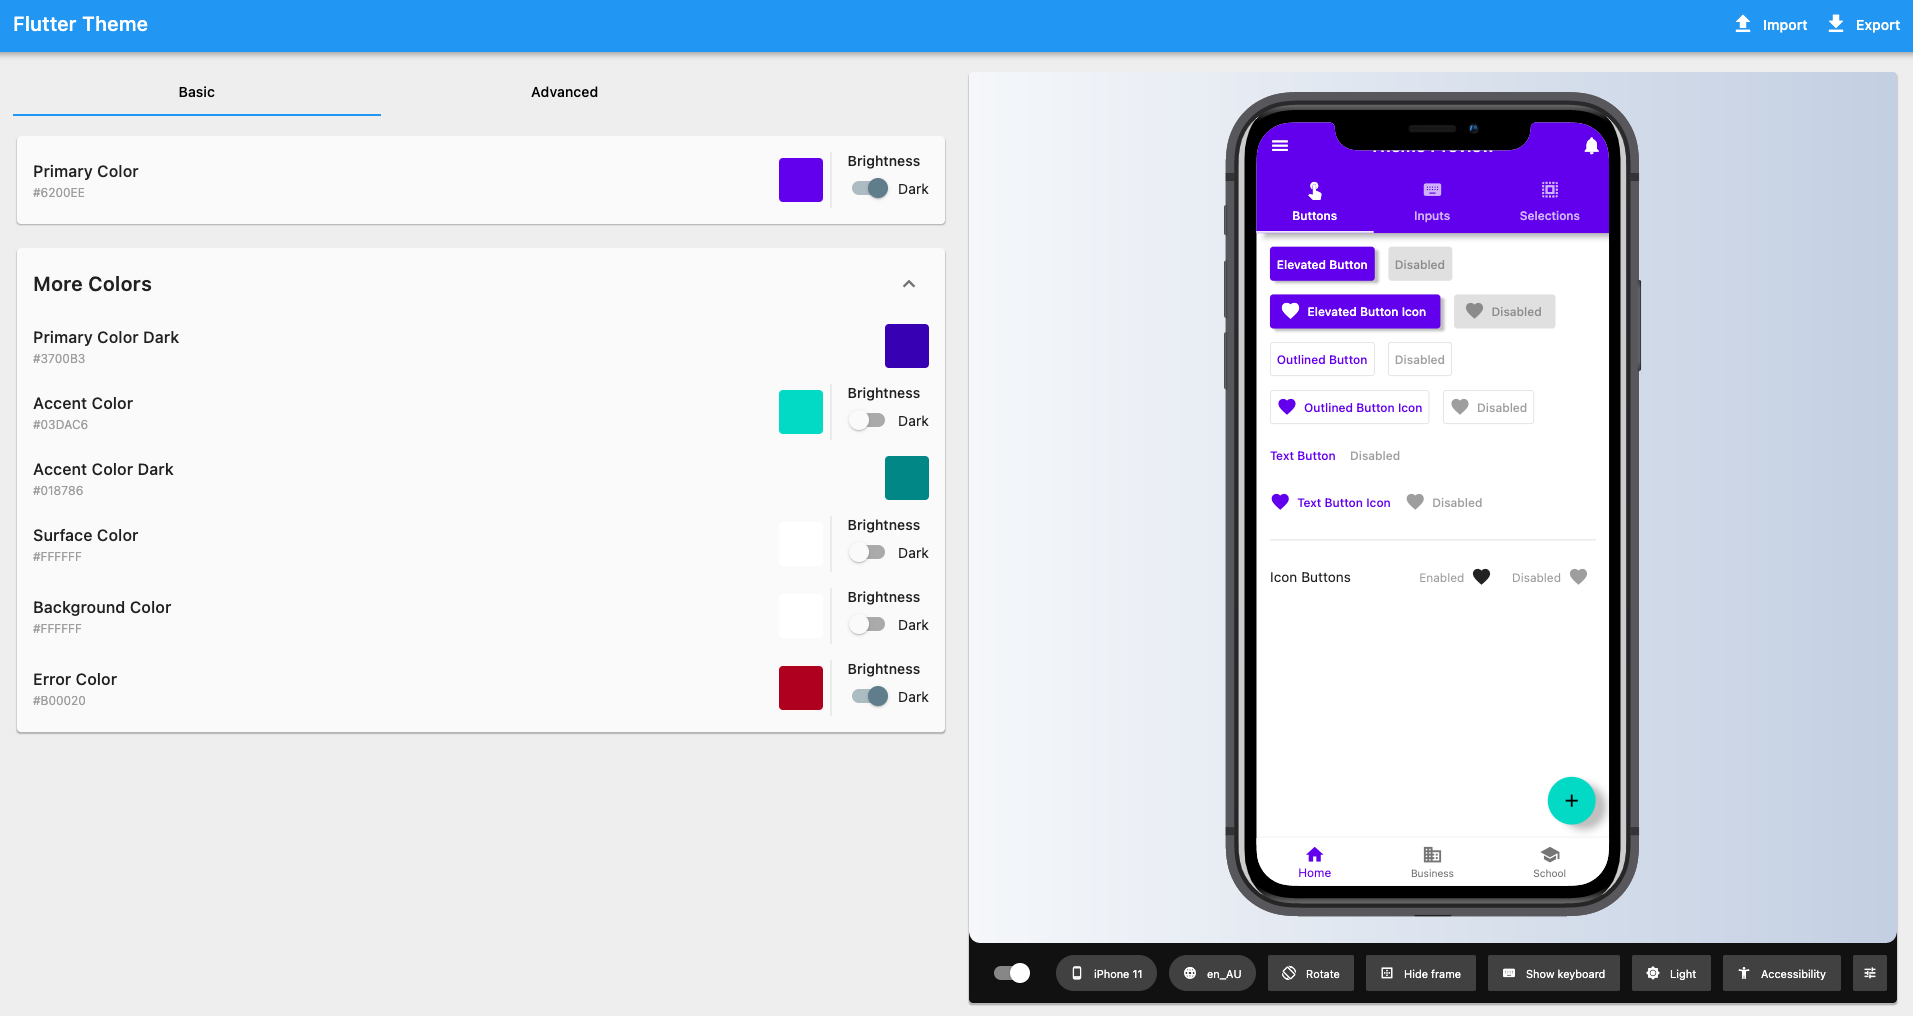
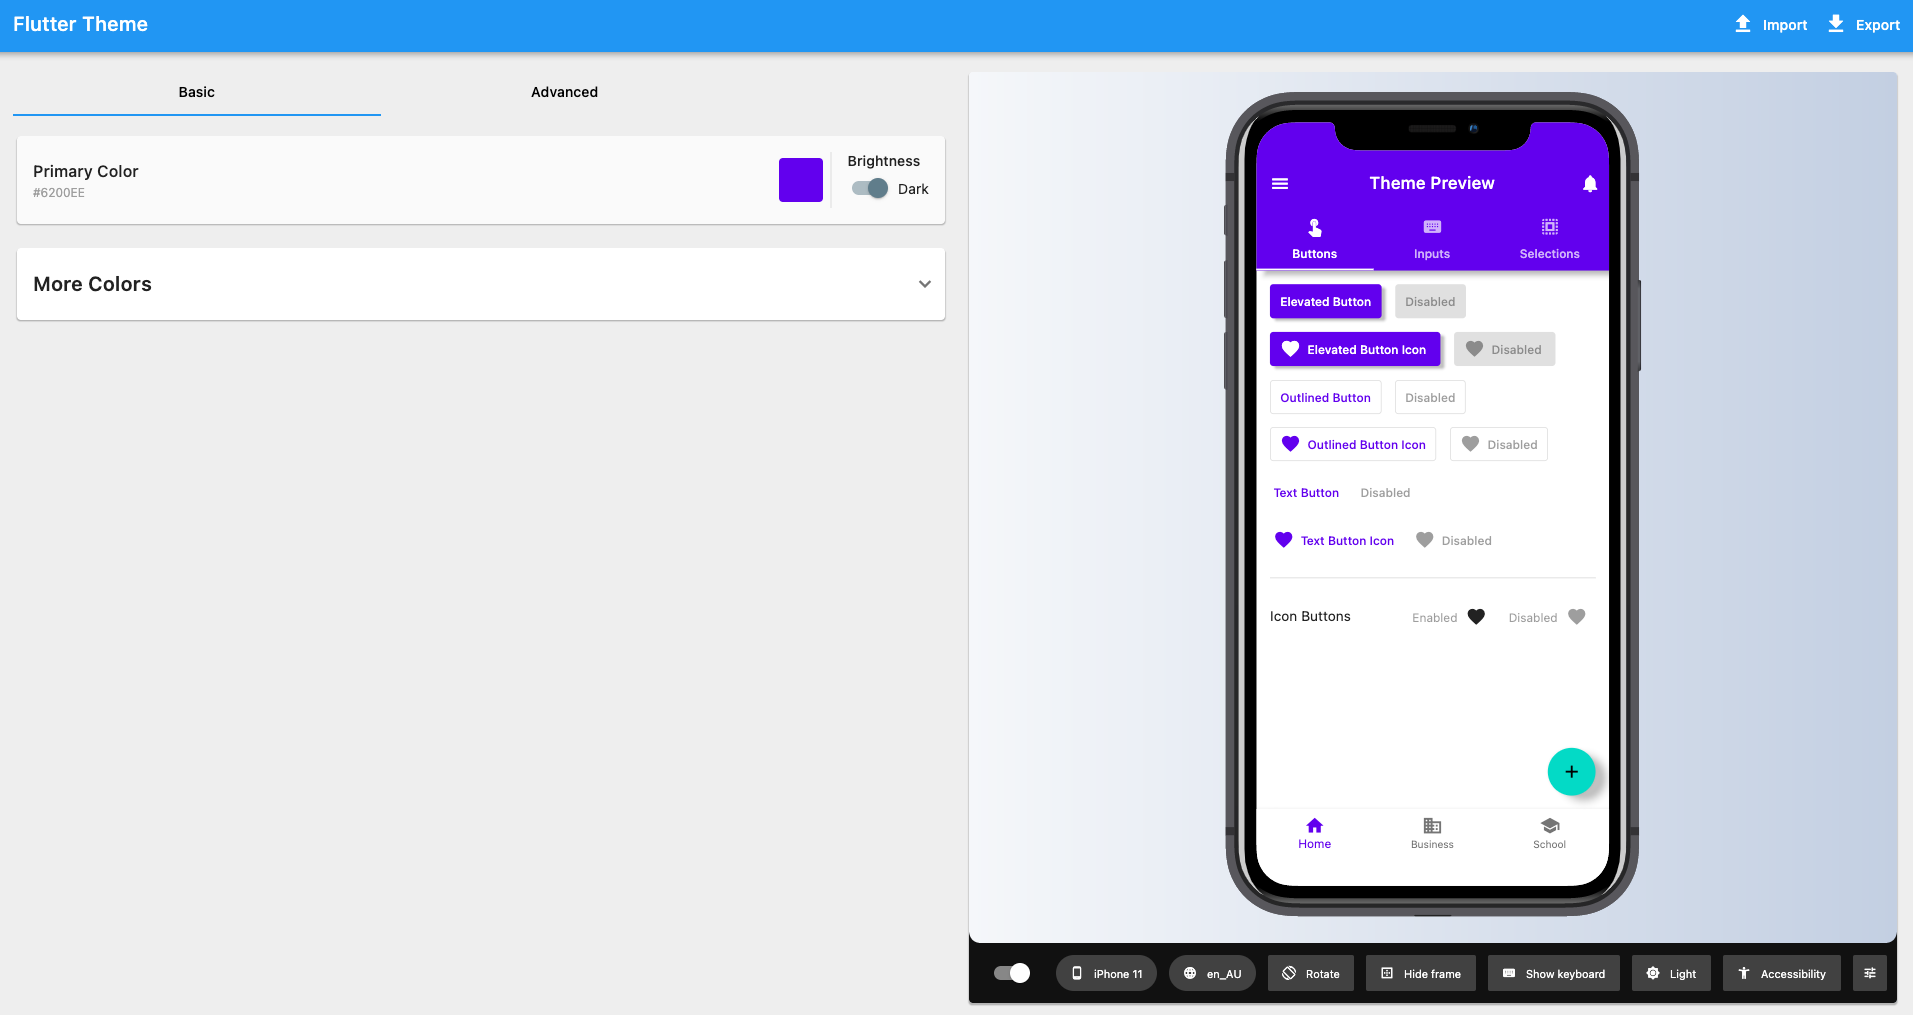
Fix theme preview app layout (#1)

diff --git a/lib/src/theme_preview/theme_preview.dart b/lib/src/theme_preview/theme_preview.dart
@@ -28,6 +28,8 @@ class ThemePreview extends StatelessWidget {
         return DevicePreview(builder: (context) {
           return MaterialApp(
             theme: theme,
+            locale: DevicePreview.locale(context),
+            builder: DevicePreview.appBuilder,
             home: DefaultTabController(
               length: _pages.length,
               child: Scaffold(
